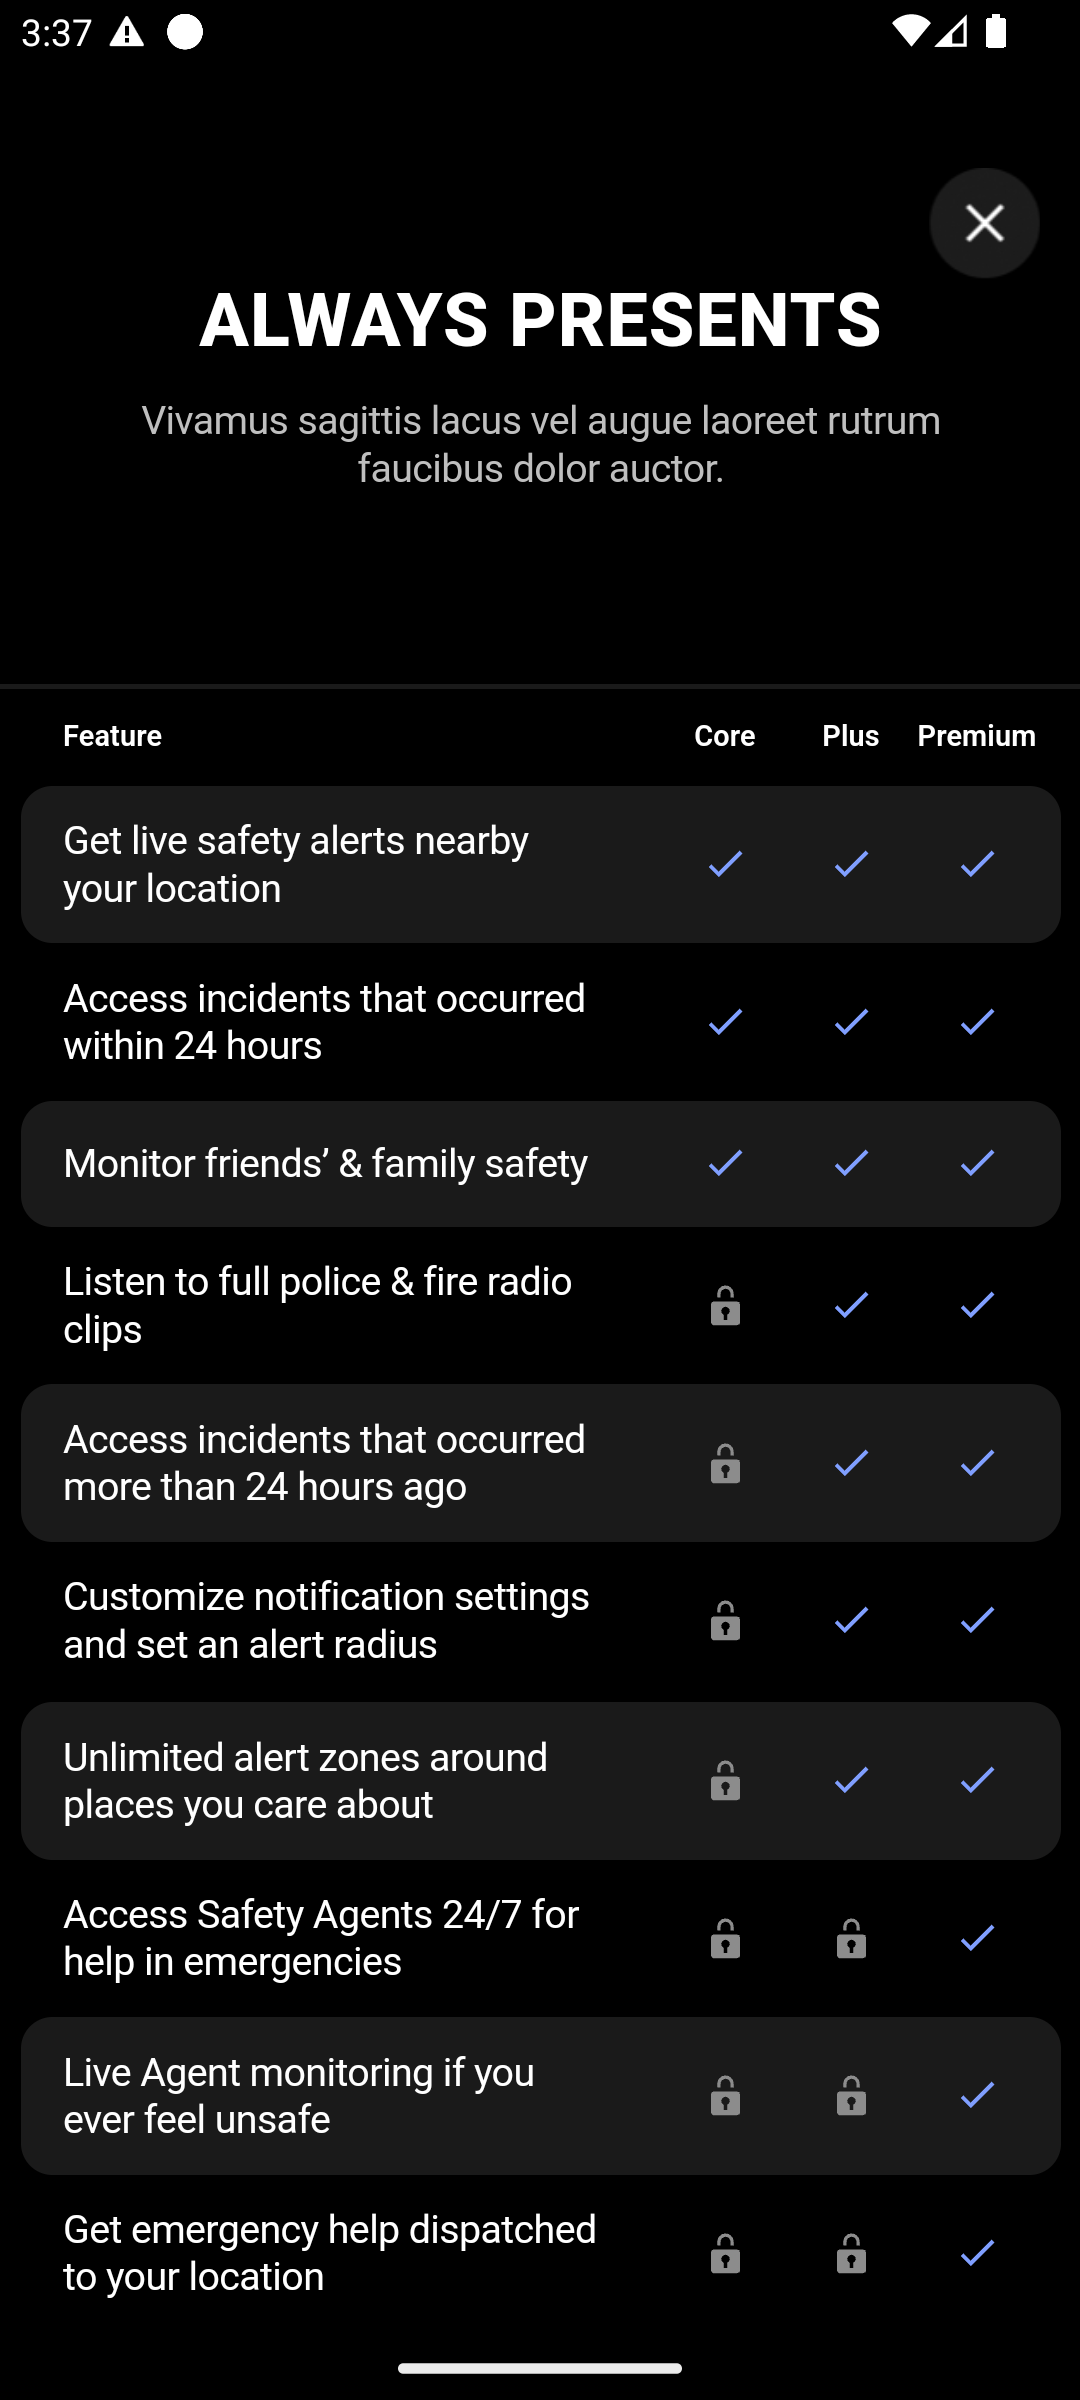
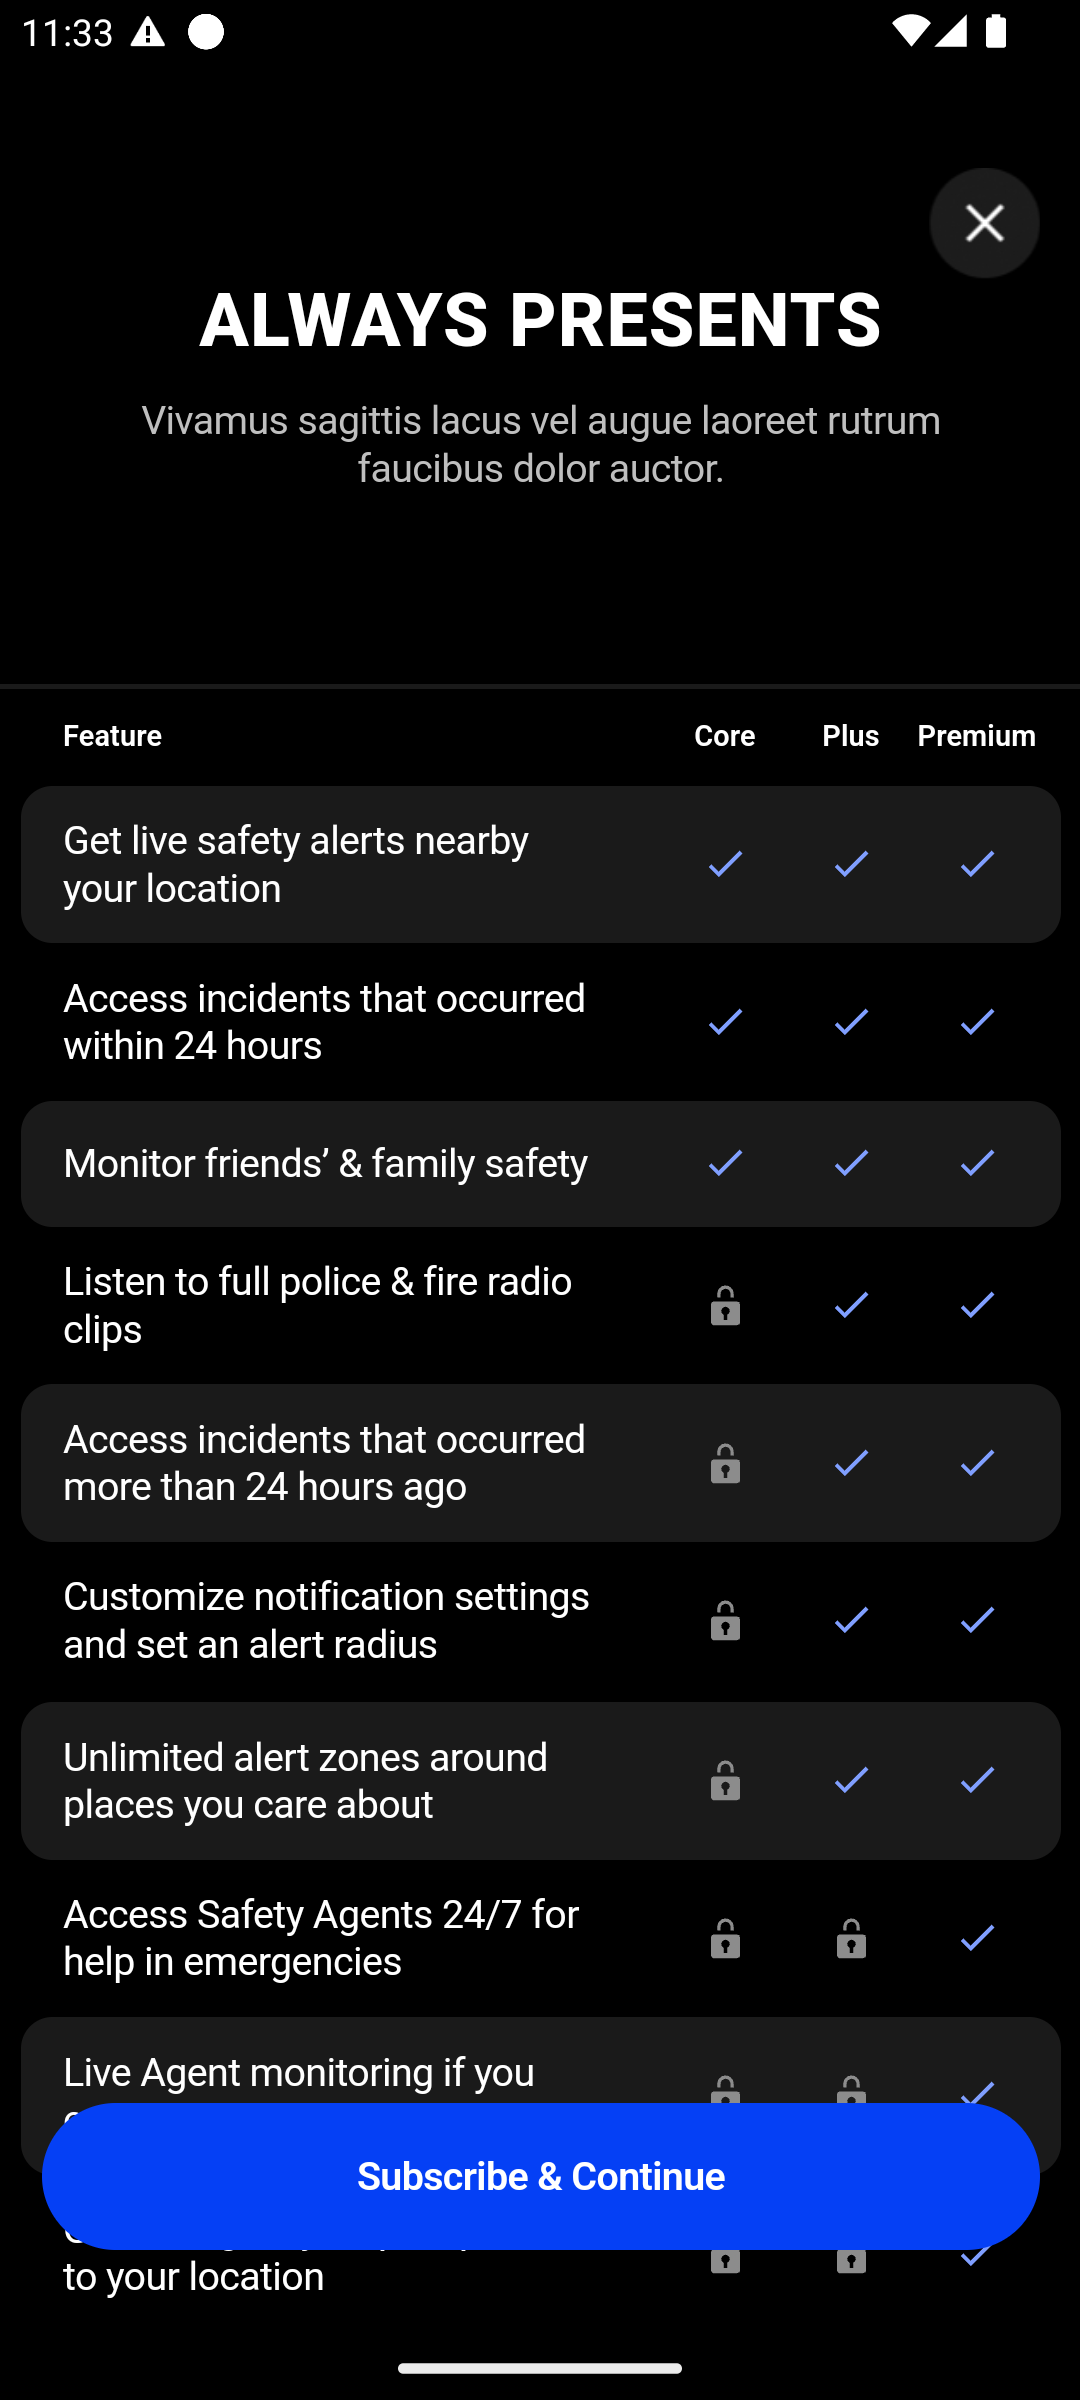
Fix screenshot flakyness from scrollbar/button showing, ensure shimmer acquires real configuration on setup

Changed region(s): [[0.0306, 0.875, 0.9778, 0.9375], [0.0306, 0.0, 0.2139, 0.0312]]

diff --git a/app/src/androidTest/java/com/example/superapp/test/SimpleScreenshotTestExecutor.kt b/app/src/androidTest/java/com/example/superapp/test/SimpleScreenshotTestExecutor.kt
@@ -16,9 +16,13 @@ import com.superwall.sdk.Superwall
 import com.superwall.sdk.analytics.superwall.SuperwallEvent
 import com.superwall.sdk.delegate.SubscriptionStatus
 import com.superwall.superapp.test.UITestHandler
+import kotlinx.coroutines.CoroutineScope
+import kotlinx.coroutines.Dispatchers
+import kotlinx.coroutines.async
 import org.junit.Rule
 import org.junit.Test
 import org.junit.runner.RunWith
+import kotlin.time.Duration.Companion.milliseconds
 import kotlin.time.Duration.Companion.seconds
 
 @RunWith(AndroidJUnit4::class)
@@ -79,11 +83,37 @@ class SimpleScreenshotTestExecutor {
     @Test
     fun test_paywall_presents_with_handler_invoked() =
         with(dropshots) {
+            val mainScope = CoroutineScope(Dispatchers.Main)
             screenshotFlow(UITestHandler.test16Info) {
                 step("") {
                     it.waitFor { it is SuperwallEvent.PaywallWebviewLoadComplete }
                     awaitUntilShimmerDisappears() || awaitUntilWebviewAppears()
                     delayFor(2.seconds)
+                    mainScope
+                        .async {
+                            // We scroll a bit to display the button
+                            Superwall.instance.paywallView
+                                ?.webView
+                                ?.apply {
+                                    // Disable the scrollbar for the test
+                                    // so its not visible in screenshots
+                                    isVerticalScrollBarEnabled = false
+                                    scrollTo(0, 300)
+                                }
+                        }.await()
+                    // We delay a bit to ensure the button is visible
+                    delayFor(100.milliseconds)
+                    // We scroll back to the top
+                    mainScope
+                        .async {
+                            Superwall.instance.paywallView
+                                ?.webView
+                                ?.apply {
+                                    scrollTo(0, 0)
+                                }
+                        }.await()
+                    // We delay a bit to ensure scroll has finished
+                    delayFor(500.milliseconds)
                 }
             }
         }

diff --git a/superwall/src/main/java/com/superwall/sdk/paywall/vc/ShimmerView.kt b/superwall/src/main/java/com/superwall/sdk/paywall/vc/ShimmerView.kt
@@ -67,6 +67,7 @@ class ShimmerView(
                 else -> GONE
             }
         paywallViewController.addView(this)
+        checkForOrientationChanges()
     }
 
     fun checkForOrientationChanges() {
